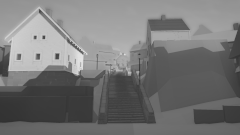
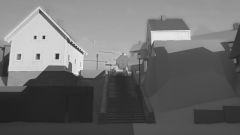
LT1: art direction: round-2 notes taken (low sun's sun and shade from the light's own colour, its blue sky back, D lit as the engine lights it), the page's three corrections, the hand-over to round 3

diff --git a/tools/style_frame.py b/tools/style_frame.py
@@ -513,6 +513,11 @@ def value_plan(img, plan, dist, sky, pool, focus_w, lit, local, glow_l, ps):
         # [from, to, L*]: the sky darkening upwards (degrees above the horizon), away from the town's light
         tl = np.where(sky, tl + up[2] * smoothstep(up[0], up[1], ps["elev"]), tl)
     tl = merge_masses(tl, plan, ps, pool)
+    bl = plan.get("by_light")
+    if bl and ps.get("sun") is not None:
+        # low sun's two values: what the sun reaches lifted, what only the sky reaches held down
+        lifted = np.maximum(tl, np.minimum(tl + bl["sun"], bl.get("sun_max", 100.0)))
+        tl = np.where(sky, tl, (tl + bl["shade"]) * (1 - ps["sun"]) + lifted * ps["sun"])
     # named masses: one the design holds to a value of its own (a curtain of rock), whatever its planes do
     for m in ps.get("masses", []):
         a, b = m["from"]
@@ -554,7 +559,7 @@ def accents(cs, P, ps):
     return k
 
 
-def colour_script(img, cs, focus_w, pool, lit, sky, glow, accent=None):
+def colour_script(img, cs, focus_w, pool, lit, sky, glow, accent=None, sun=None):
     """Colour by value: each pixel keeps its value and takes its hue between the shade's colour (darks) and the
     light's (lights), mixed with its own by the script's strength; chroma placed at the focus, drained away."""
     y = np.maximum(luma(img), 1e-5)
@@ -566,7 +571,15 @@ def colour_script(img, cs, focus_w, pool, lit, sky, glow, accent=None):
     cols = cols / np.maximum(luma(cols)[:, None], 1e-5)
     ramp = np.stack([np.interp(v, xs, cols[:, k]) for k in range(3)], -1)
     strength = cs["strength"] * (1 - np.where(lit, cs["keep_lit"], 0.0)) * (1 - pool * cs.get("keep_pool", 0.0))
+    strength = np.where(sky, cs.get("strength_sky", cs["strength"]), strength)
     hue = own * (1 - strength[..., None]) + ramp * strength[..., None]
+    bl = cs.get("by_light")
+    if bl and sun is not None:
+        # the sun's gold on what it reaches, the sky's blue in every shade, whatever their value
+        sc, hc = (hexlin(bl[k]) for k in ("sun_srgb", "shade_srgb"))
+        lh = (hc / luma(hc)) * (1 - sun[..., None]) + (sc / luma(sc)) * sun[..., None]
+        k = np.where(sky, 0.0, bl["share"])[..., None]
+        hue = hue * (1 - k) + lh * k
     if cs.get("glow_srgb"):
         # the town's light held in the fog: its own warm hue where the air glows, the more the stronger it is
         gc = hexlin(cs["glow_srgb"])
@@ -664,6 +677,10 @@ def main():
     rf = np.sqrt(((xx - fx) / w) ** 2 + ((yy - fy) / h) ** 2)
     focus_w = np.exp(-(rf / view["focus_radius"]) ** 2).astype(np.float32)
     ps["lit"] = lit_panes(img, ps, frame.get("lit_from", 0.08))
+    if frame.get("sun_warm"):
+        g = load_render(a.view, a.moment, "grey")
+        warm = (g[..., 0] - g[..., 2]) / np.maximum(g.mean(-1), 1e-3)
+        ps["sun"] = blur(smoothstep(*frame["sun_warm"], warm), 1.0) * (~ps["sky"])
     # each lamp's kind with this moment's art over it (a painter's subordination of one lamp to another)
     lamps = [{**l, "_kind": {**recipe["lamp_kinds"][l["kind"]], **frame.get("lamp_art", {}).get(l["id"], {})}}
              for l in recipe["lamps"]]
@@ -686,7 +703,7 @@ def main():
     if a.values_only:
         print("values", value_study(img, out))
         return
-    img = colour_script(img, frame["colour"], focus_w, pool, ps["lit"], ps["sky"], glow_l, accents(frame["colour"], P, ps))
+    img = colour_script(img, frame["colour"], focus_w, pool, ps["lit"], ps["sky"], glow_l, accents(frame["colour"], P, ps), ps.get("sun"))
     img = edges_and_marks(img, ps["dist"], ps["sky"], focus_w, pool, frame["edges"])
     img = lens(img, frame["lens"], h, w)
     write_png(f"{out}.png", (srgb(img) * 255).round())

diff --git a/reviews/lt1/art-direction/README.md b/reviews/lt1/art-direction/README.md
@@ -4,7 +4,7 @@
 
 **In short**
 - **One picture, three parts.** Every view is a dark near curtain (retaining walls, the rock knuckle, the wet ground), a lit middle where the focus is (the Landing and C's corner), and a glimpse beyond (the gully's top in its own air). Nothing in the curtain is lighter than the middle.
-- **One key, one accent.** Each light has one key colour in every shade and one accent, placed at the focus: the lanterns' gold in blue hour, C's oxide-red door in drizzle, the sun's gold on C's front in low sun.
+- **One key, one accent.** Each light has one key colour in every shade and one accent: the lanterns' gold in blue hour, D's wet pantiles in drizzle (C's door is out of the street cameras' sight), the sun's gold on C's front in low sun. One white and the largest halo are at the focus; every other lamp sits two values under it with a third of its halo, and lit fog stays below the focus's wall.
 - **Value before colour.** Each frame is a value study at 1/8 first (`-eighth.png`, five values in `-values.png`); colour comes only after the values read.
 - **Found at the focus, lost elsewhere.** Crisp edges and full detail only at the focus and where a lit plane meets the sky; creases inside a dark mass are lost; past 50 m only shapes and lights remain.
 - **Facts stand.** The three gully lanterns are drawn at their planned places (every 24 m, the lowest on the cheek wall; the layout drops them today); the Landing's 1955 lantern replaces its clay stand-in; no person is drawn. Reopens if a frame needs a house, step, lamp or person the facts lack: then the facts change first, in the engine.
@@ -13,17 +13,19 @@
 
 | View | Focus and eye travel | Value plan (blue hour, 1/8) |
 | --- | --- | --- |
-| **Street camera** (`street`) | The Landing lantern by C's warm-lit corner. In by the wet steps' ladder of light, up to the Landing, out to the lit fog at the gully's top; the nearest lantern holds the right edge. | ![](frames/street-1750-sea-fog-eighth.png) |
+| **Street camera** (`street`) | The Landing lantern by C's warm-lit corner. In by the wet steps' ladder of light, up to the Landing, out to the lit fog at the gully's top; the cheek-wall lantern, centre-right, held two values under the Landing's. | ![](frames/street-1750-sea-fog-eighth.png) |
 | **Foot of the steps** (`eye-foot`) | The Landing lantern and C's lit corner above the flight; the treads' wet noses lead straight up to it, the two far lanterns and the fog beyond. | ![](frames/eye-foot-1750-sea-fog-eighth.png) |
 | **A house front at eye level** (`c-east`) | C's east wall in the Landing lantern's light: the boards, the windows and the paint's age at full truth, the lantern's post the one dark vertical. | ![](frames/c-east-1750-sea-fog-eighth.png) |
 | **12 m** (`into12`) | The Landing seen from above: C's lit plinth corner, the lantern, the flight turning up the gully; the knuckle a dark wedge at the right. | ![](frames/into12-1750-sea-fog-eighth.png) |
+
+Street and the foot of the steps have judged frames; the house front and 12 m have value plans only.
 
 **Colour script.** The same for every view; what changes is where the focus falls.
 
 | Light | Key (every shade) | The one accent | Warmest | Darkest |
 | --- | --- | --- | --- | --- |
 | **Blue hour in sea fog** (17:50) | Blue-violet of the fogged sky; white walls pale blue-violet, still the lightest built mass | The lanterns' gold; the one white is the nearest lantern's glass | The lit fog over the gully's top, peach | The near retaining wall's foot and the rock knuckle |
-| **Drizzle** (13:00) | Silver-grey of a bright overcast; sky lightest, then wet treads and puddles that mirror it, roofs, walls | C's oxide-red door, the one saturated thing | C's door; nothing else is warm | The near wall's foot and the dark glass |
+| **Drizzle** (13:00) | Silver-grey of a bright overcast; sky lightest, then puddles that mirror it, wet treads, C's wall; walls cool blue-grey | D's wet pantiles, dull burnt orange, darker than its wall | D's pantiles; wet rock and plinths a warm brown-grey | C's nearest window glass and the near wall's foot |
 | **Low sun** (16:00) | The sun's gold on what faces it against the sky's blue in every shade: two values more than five | The gold on C's sunlit front at the Landing | C's sunlit front | The near wall in shade and the shadow under C's eaves |
 
 ## The corner's shapes

diff --git a/NOW.md b/NOW.md
@@ -34,6 +34,7 @@ Each session commits its own work; a stopped one resumes from its files. Long wo
 - **The gully port,** resumed at 2b: step 1, step 2a (hashes unchanged) and step 3's early rungs are done, with Fable's verdict in the docs.
   - *Next:* 2b, the stones redrawn (Øystein: "very buggy and not nice"; Q15), running in its own session inside the playable corner; what's left, in order, is in `reviews/lt1/port-handover.md`. R2b's three stones (wall stone, step, coping) are done by make, look, fix, passed their strict review on Fable after patches, and are laid in the gully (`tools/r2b_gully.py`) with each stone its own value and the lichen a pale crust; Øystein judges `reviews/lt1/port/2b/r2b/gully/round04-sheet.jpg`, grounded and raked after his "floaty", and the open points are in `reviews/lt1/port/2b/r2b/report.md`. Steps 4 and 5 are done only as `reviews/lt1/port/foundation-needs.md` says.
   - *22 October, night:* R0b is done (`cd79b22`): the pipeline makes none of the gully's one-pixel lines and specks, so the redraw owns them. The patches' third round did not pass as a finished face (`7270491`); the patches go to R2a's three stones in Unity (its own session, started by 2b) beside R1's second round. Weekly usage was 92% at 23:40; work stops at pushed points if it runs out, and resumes after the reset on Monday 26 October at 13:00.
+- **The corner's art direction** (Øystein, 27 October: "Make our style and art truly outstanding"), in `reviews/lt1/art-direction/`: the masters study, the page (`README.md`), and four style frames painted in code over our renders (street in blue hour, drizzle and low sun; eye level at the foot of the steps). Fable's art director failed all four in round 2, with street blue hour one round away. A fresh session runs round 3, the last, from the hand-over note (`art-direction-handover.md` in the shared notes), then adds to the page what each later element must do.
 - **The paper playtests, stopped** at 11 of 24 runs (Øystein: "Maybe stop playtest, and focus on building?"). Outcome and next: `docs/playtests/paper-1/analysis/interim.md`; the concepts are redesigned from its needs when people play the greybox.
 - **Held, on Opus:** the camera and play-craft studies' unread talks and masters (their Limits sections), each read before the step that rests on it; a review of the playtest programme when the greybox is close.
 - **One check command** (Øystein, 22 October: yes; `CLAUDE.md`, Working in the right order): after the reset on 26 October, `tools/check.py` gathers every machine check (budgets, seeds, hashes, data not code). It then runs once over the generators, shaders and C#, to size how much holds style, era or place in code. Rules it checks then shrink to a line in `CLAUDE.md`.
